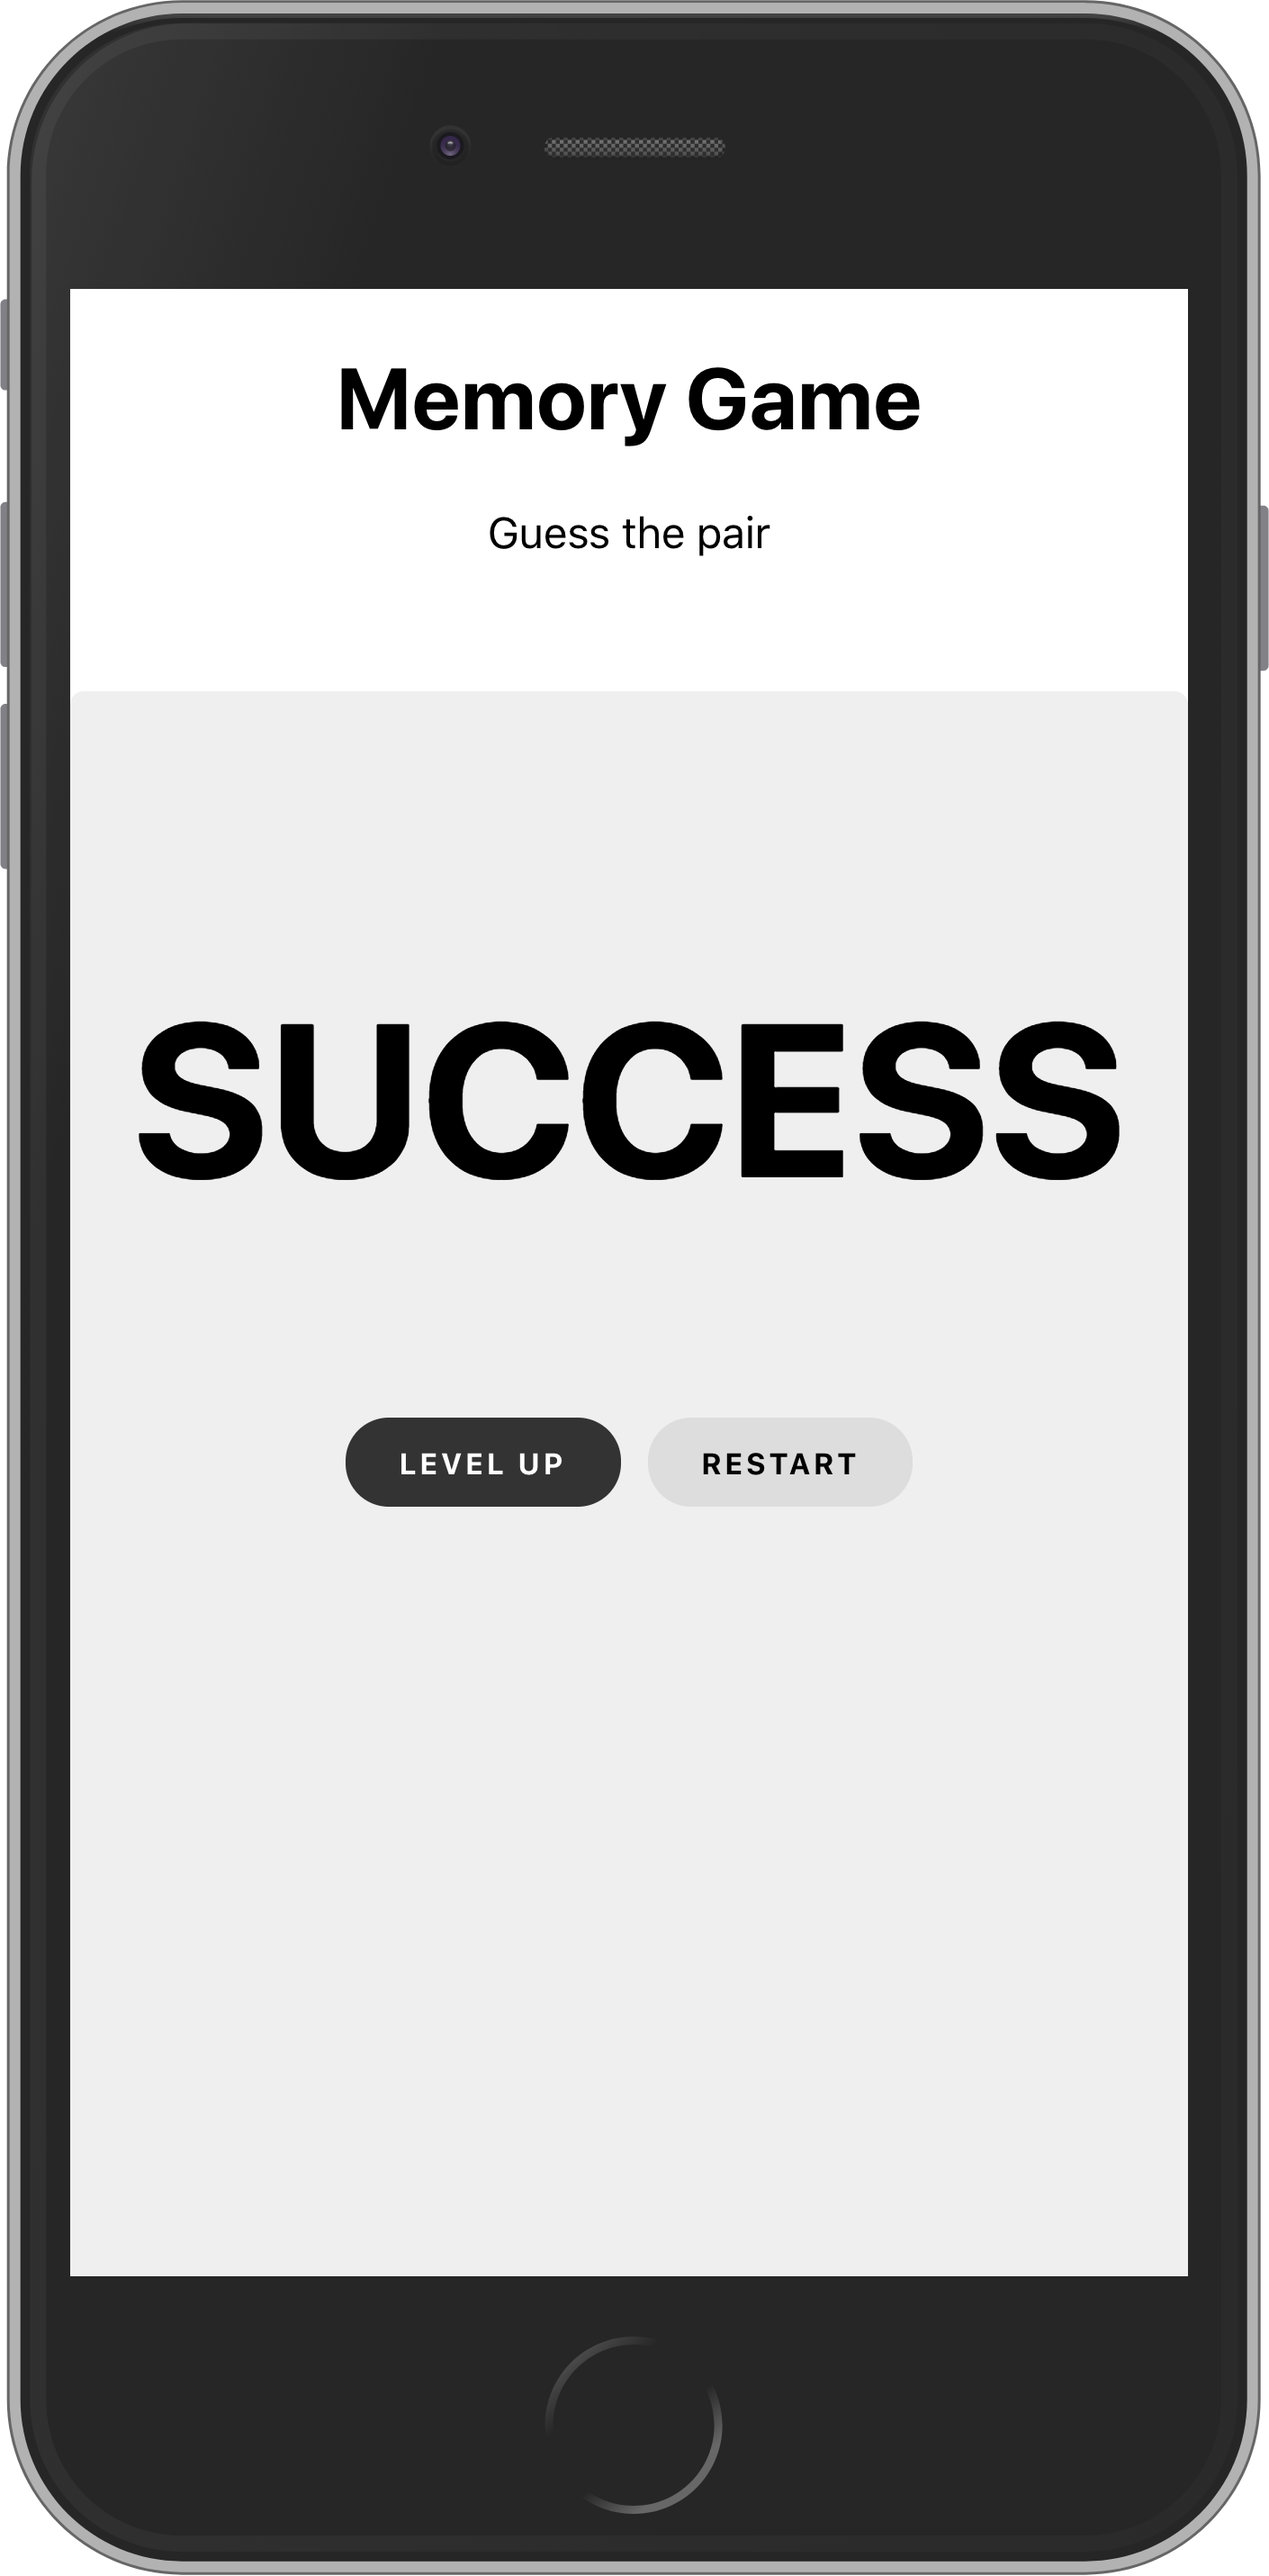
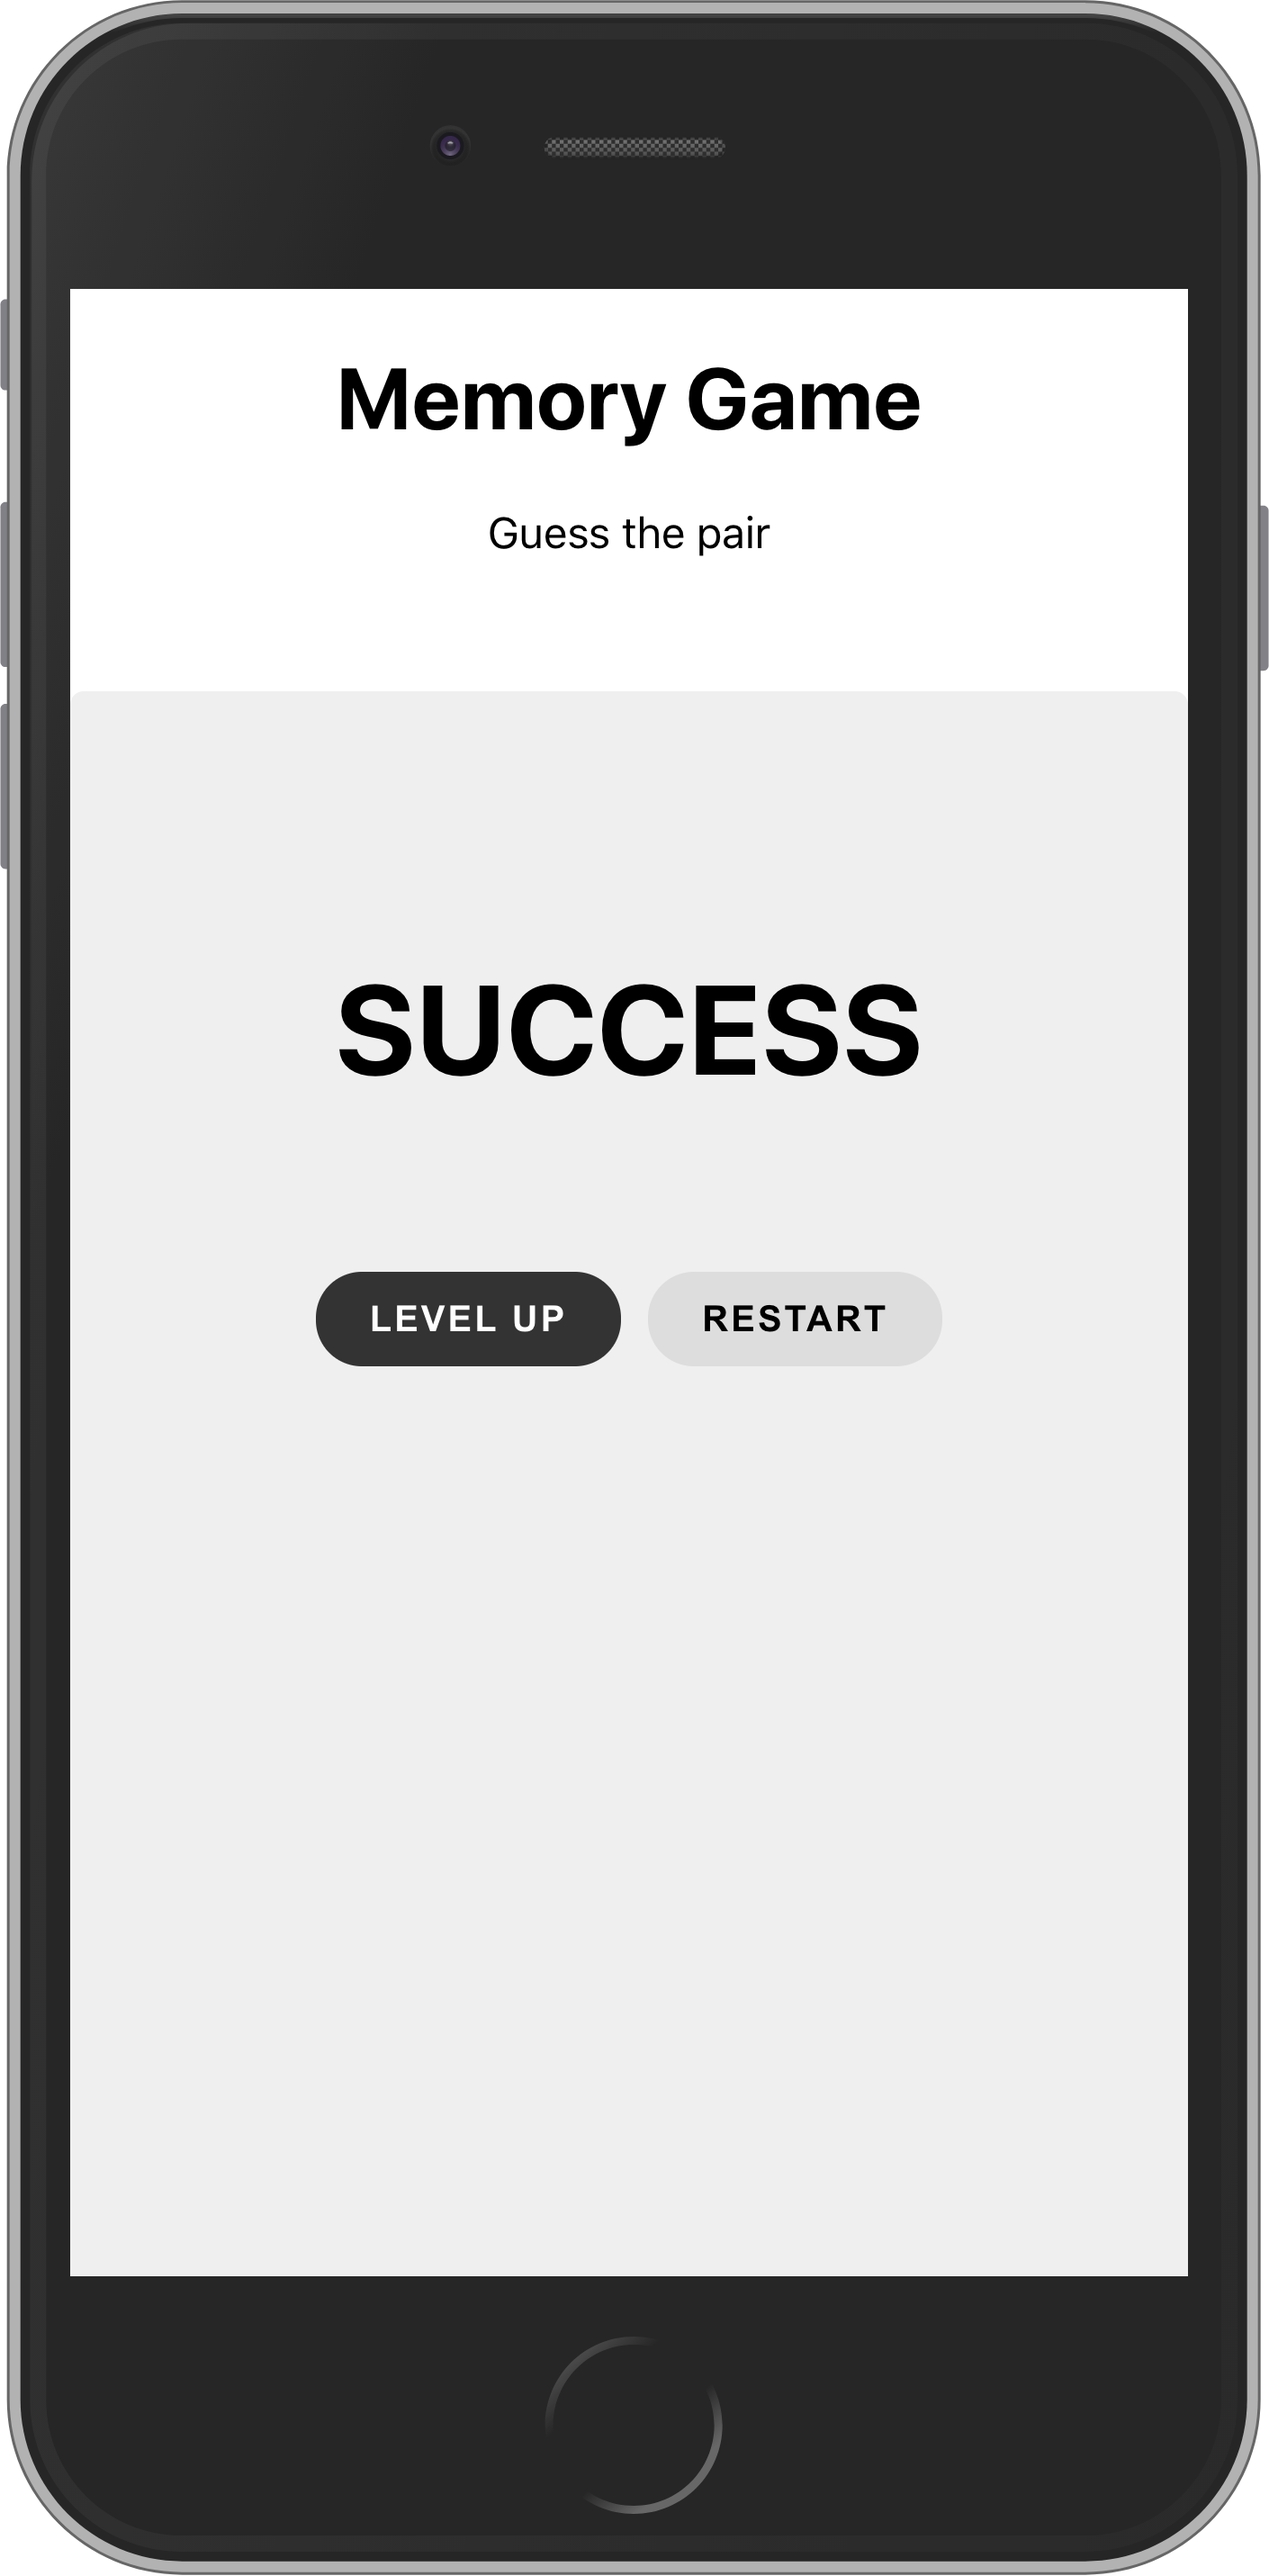
first commit

Changed region(s): [[0.0936, 0.3732, 0.905, 0.5908], [0.5617, 0.4976, 0.6865, 0.5287], [0.5617, 0.5597, 0.6553, 0.5908]]

diff --git a/src/App.js b/src/App.js
@@ -35,8 +35,8 @@ class App extends Component {
       lastActive: -1,
       lastActivePosition: -1,
       guessCount: 0,
-      start: false,
-      success: false,
+      start: true,
+      success: true,
       disbleClick: false,
       level: 1
     };
@@ -271,7 +271,7 @@ class App extends Component {
     } else {
       if (success) {
         finalComponent = <div className="success-div">
-          <h1>SUCCESS</h1>
+          <h3>SUCCESS</h3>
           <div>
             { levelUpComponent }
             <button className="button-class" onClick={() => this.onStartClick()}>Restart</button>

diff --git a/src/index.css b/src/index.css
@@ -12,6 +12,10 @@ code {
     monospace;
 }
 
+.App {
+  text-align: center;
+}
+
 .game-div {
   margin: 50px 0;
   display: flex;
